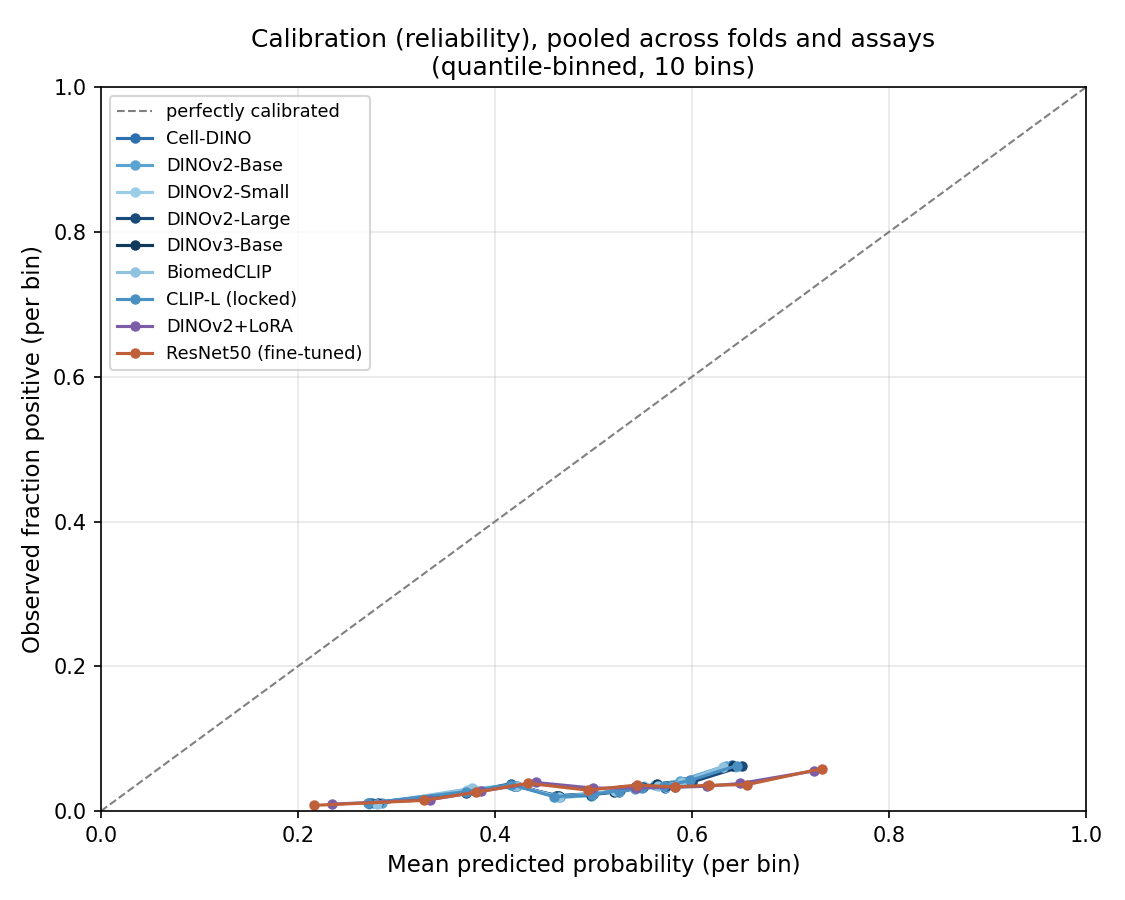
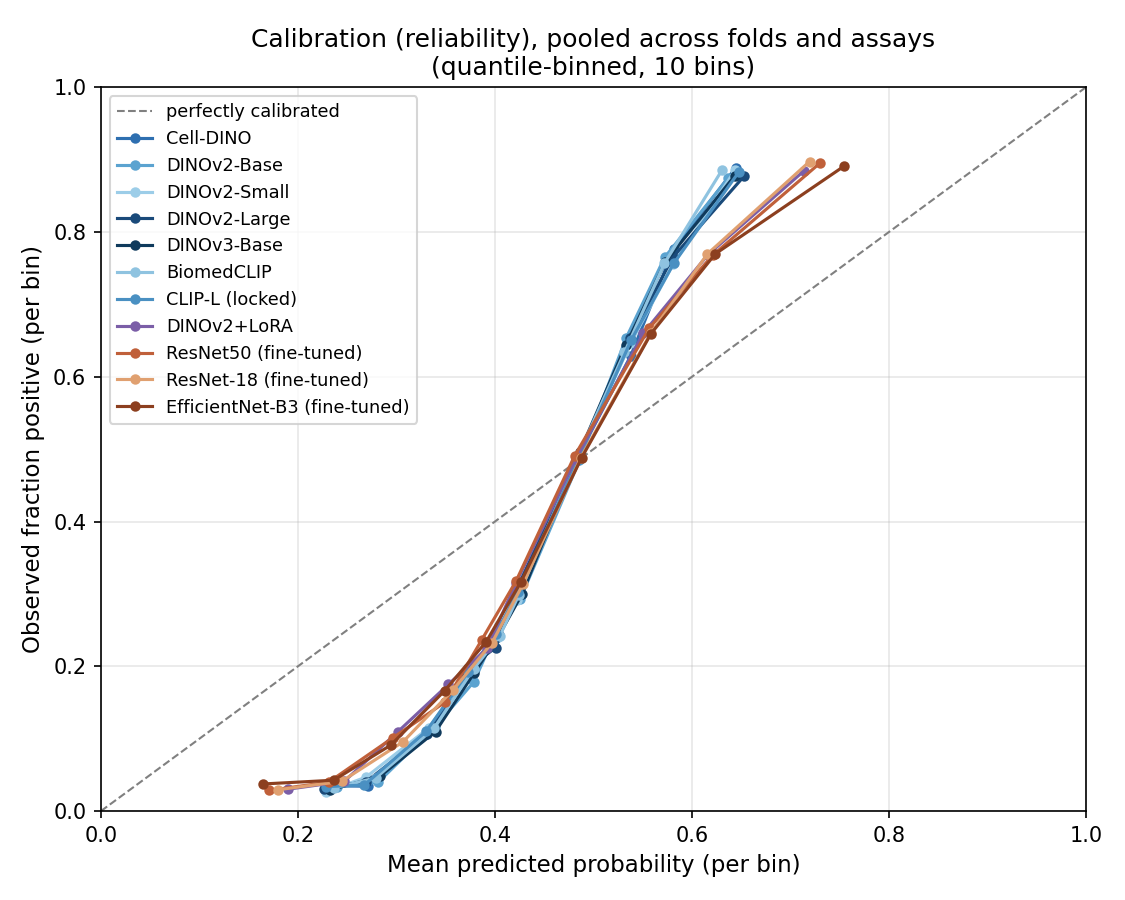
Fix label mask in Figures F and G; add ResNet-18 and EfficientNet-B3 to Figures B and D to H
Figures F and G pooled predictions with the mask != -1 and so counted unmeasured entries as negatives (positive rate 0.032 instead of 0.370). The mask is now != 0 with positives == 1 and both figures are regenerated from 25,105 measured pairs per arm. ResNet-18 and EfficientNet-B3 added to Figures D to H; Figure B and the heatmap widened so labels no longer overlap. Logged in verify/CORRECTIONS.md.

Changed region(s): [[0.2178, 0.4667, 0.7467, 0.9022], [0.5289, 0.1556, 0.7467, 0.4667], [0.0933, 0.4044, 0.3733, 0.4667]]

diff --git a/make_pr_calibration_pareto.py b/make_pr_calibration_pareto.py
@@ -10,7 +10,7 @@ per-sample test predictions (no retraining, no re-inference):
   fig_H_pareto_efficiency.png  -- Test ROC-AUC vs. % trainable parameters
 
 For each arm, all 6 folds' test_preds.csv / test_labels.csv are pooled
-(masked entries, label == -1, excluded) into one flat set of
+(unmeasured entries, label == 0, excluded; 1 = positive, -1 = negative) into one flat set of
 (y_true, y_score) pairs, then a single micro-averaged curve is computed
 per arm. This matches the same "pool across folds and assays" approach
 implicit in the project's existing mean_roc_auc metric.
@@ -46,11 +46,29 @@ ARMS = [
     ("bioact_clip_r224",        "CLIP-L (locked)",       "#4A90C2", "plots"),
     ("bioact_lora_vit_s_r224",  "DINOv2+LoRA",           "#7B5EA7", "direct"),
     ("bioact_resnet_r224",      "ResNet50 (fine-tuned)", "#C0603A", "direct"),
+    ("r18_eval/out_r224",      "ResNet-18 (fine-tuned)", "#E0A070", "oof"),
+    ("effnet_eval/out_r224",   "EfficientNet-B3 (fine-tuned)", "#8C3F1F", "oof"),
 ]
 
 
+def load_oof(path):
+    """Per-image oof file -> compound-level (y_true, y_score); label 0 = not measured."""
+    if not os.path.exists(path):
+        return None, None
+    d = pd.read_csv(path)
+    pc = [c for c in d.columns if c.startswith("pred_")]
+    lc = ["label_" + c[5:] for c in pc]
+    g = d.groupby("compound_id")[pc + lc].mean()
+    P, Lb = g[pc].values, g[lc].values
+    print("  oof score range %.3f to %.3f" % (P.min(), P.max()))
+    m = Lb != 0
+    return (Lb[m] == 1).astype(int), P[m]
+
+
 def load_pooled(stem, path_style):
-    """Load and pool (y_true, y_score) across all 6 folds, masking label==-1."""
+    """Load and pool (y_true, y_score) across all 6 folds, masking label==0 (not measured)."""
+    if path_style == "oof":
+        return load_oof(os.path.join(os.path.dirname(RESULTS), stem, "oof_predictions.csv"))
     all_y, all_s = [], []
     for f in FOLDS:
         if path_style == "plots":
@@ -67,8 +85,8 @@ def load_pooled(stem, path_style):
         assay_cols = [c for c in preds_df.columns if c.startswith("assay_")]
         preds = preds_df[assay_cols].values.astype(float)
         labels = labels_df[assay_cols].values.astype(float)
-        mask = labels != -1.0
-        all_y.append(labels[mask])
+        mask = labels != 0.0
+        all_y.append((labels[mask] == 1).astype(int))
         all_s.append(preds[mask])
     if not all_y:
         return None, None
@@ -153,6 +171,8 @@ PARETO = [
     ("CLIP-L (locked)",       0.6257, 100 * head_params(768)  / 304_000_000, "frozen",   (-15, -35)),
     ("DINOv2+LoRA",           0.6373, 100 * 0.54 / 22.4, "lora",                          (10, 4)),
     ("ResNet50 (fine-tuned)", 0.6638, 100.0, "finetuned",                                 (-155, 4)),
+    ("ResNet-18 (fine-tuned)", 0.6611, 100.0, "finetuned", (-170, -24)),
+    ("EfficientNet-B3 (fine-tuned)", 0.6622, 100.0, "finetuned", (-215, 30)),
 ]
 GROUP_COLOR = {"frozen": "#5BA3D0", "lora": "#7B5EA7", "finetuned": "#C0603A"}
 

diff --git a/make_adaptation_figure.py b/make_adaptation_figure.py
@@ -79,6 +79,8 @@ SPECTRUM = [
     ("dino_small_r224",  "DINOv2-Small\n(frozen, LoRA base)","frozen"),
     ("lora_vit_s_r224",  "DINOv2+LoRA\n(2.4% params)",       "lora"),
     ("resnet_r224",      "ResNet50\n(fine-tuned)",           "finetuned"),
+    ("resnet18_r224",   "ResNet-18\n(fine-tuned)",         "finetuned"),
+    ("effnet_r224",     "EfficientNet-B3\n(fine-tuned)",   "finetuned"),
 ]
 GROUP_COLOR = {"frozen": "#5BA3D0", "lora": "#7B5EA7", "finetuned": "#C0603A"}
 
@@ -95,7 +97,7 @@ for key, label, grp in SPECTRUM:
     groups.append(grp)
 
 x = np.arange(len(labels))
-fig, ax = plt.subplots(figsize=(9, 5.5))
+fig, ax = plt.subplots(figsize=(11.5, 5.5))
 bars = ax.bar(x, means, color=colors, alpha=0.85, width=0.6,
               yerr=spreads, capsize=4, error_kw=dict(alpha=0.5))
 # value labels
@@ -118,7 +120,7 @@ lora_m = per_assay_means("lora_vit_s_r224").mean()
 ft = per_assay_means("resnet_r224").mean()
 recovered = 100 * (lora_m - frozen_small) / (ft - frozen_small)
 ax.text(0.5, 0.02,
-        f"LoRA recovers ~{recovered:.0f}% of the frozen->fine-tuned gap "
+        f"LoRA recovers ~{recovered:.0f}% of the frozen->fine-tuned (ResNet50) gap "
         f"with 2.4% of parameters trainable\n(baseline: frozen DINOv2-Small, same backbone as LoRA; "
         f"LoRA: {n_lora_folds}-fold CV; frozen/fine-tuned: 6-fold CV)",
         transform=ax.transAxes, ha="center", fontsize=8.5, style="italic",

diff --git a/make_benchmark_figures.py b/make_benchmark_figures.py
@@ -145,7 +145,7 @@ except Exception as e:
 order = paired.mean().sort_values(ascending=False).index.tolist()
 data_ord = [paired[c].values for c in order]
 
-fig, ax = plt.subplots(figsize=(8, 5.5))
+fig, ax = plt.subplots(figsize=(12.5, 5.5))
 bp = ax.boxplot(data_ord, labels=order, patch_artist=True, widths=0.6,
                 medianprops=dict(color="black", linewidth=1.5))
 for patch, label in zip(bp["boxes"], order):
@@ -179,7 +179,7 @@ if nemenyi is not None:
     print(nemenyi.round(4).to_string())
 
     nem_ord = nemenyi.loc[order, order]
-    fig, ax = plt.subplots(figsize=(7, 6))
+    fig, ax = plt.subplots(figsize=(8.5, 7.5))
     im = ax.imshow(nem_ord.values, cmap="RdYlGn", vmin=0, vmax=1, aspect="auto")
     ax.set_xticks(range(len(order))); ax.set_xticklabels(order, rotation=45, ha="right", fontsize=9)
     ax.set_yticks(range(len(order))); ax.set_yticklabels(order, fontsize=9)

diff --git a/verify/CORRECTIONS.md b/verify/CORRECTIONS.md
@@ -18,3 +18,4 @@ Errors and overstated claims found in this project's own work, with what changed
 | 2026-10-22 | The README, the methodology document and the benchmark README described the Friedman/Nemenyi test behind Figures B and E as comparing models across folds. | That test (make_benchmark_figures.py) uses the 29 assays as blocks, each averaged over the six folds. Only cv_friedman.py uses the six folds as blocks. | All three texts now name the blocks of each test. |
 | 2026-10-22 | The benchmark README and its generator said ResNet-50 at 448 px ranks first in all six folds, without naming the set of arms. | True among the original arms only. With ResNet-18 and EfficientNet-B3 included, the best arm varies by fold and ResNet-50 at 448 px ranks 4, 3, 2, 3, 1 and 1 of 16. | Statements narrowed to the original arms; the per-fold ranking is stated explicitly. |
 | 2026-10-22 | The Friedman/Nemenyi results were computed before ResNet-18 and EfficientNet-B3 were added. | Adding arms changes Nemenyi p-values: ResNet-50 vs DINOv2-Large 0.105 to 0.048 (now significant) and Cell-DINO vs BiomedCLIP 0.018 to 0.153 (no longer significant). | Both tests recomputed (9 arms assay-blocked, chi-squared 67.2; 16 arms fold-blocked, chi-squared 71.8, critical difference 9.42). README, methodology document, benchmark README, Figures B, C and E and nemenyi_pvalues.csv updated. |
+| 2026-10-22 | Figures F (precision-recall) and G (calibration) pooled the per-sample predictions with the label mask `!= -1`. In the pipeline 1 = positive, -1 = negative and 0 = not measured, so the mask kept the unmeasured entries (92% of all entries) and dropped the real negatives. | The positive rate used was 0.032 instead of 0.370, so the AP values, the random baseline (AP 0.032) and the calibration curves in the repository figures were wrong. The ROC-AUC results were recomputed independently from the raw labels (cv_rescore.py) and are not affected; Figure H takes its AUC values from the tables. | The mask is now `!= 0` with positives `== 1`; Figures F and G were regenerated from 25,105 measured (compound, assay) pairs per arm and now include ResNet-18 and EfficientNet-B3. |
